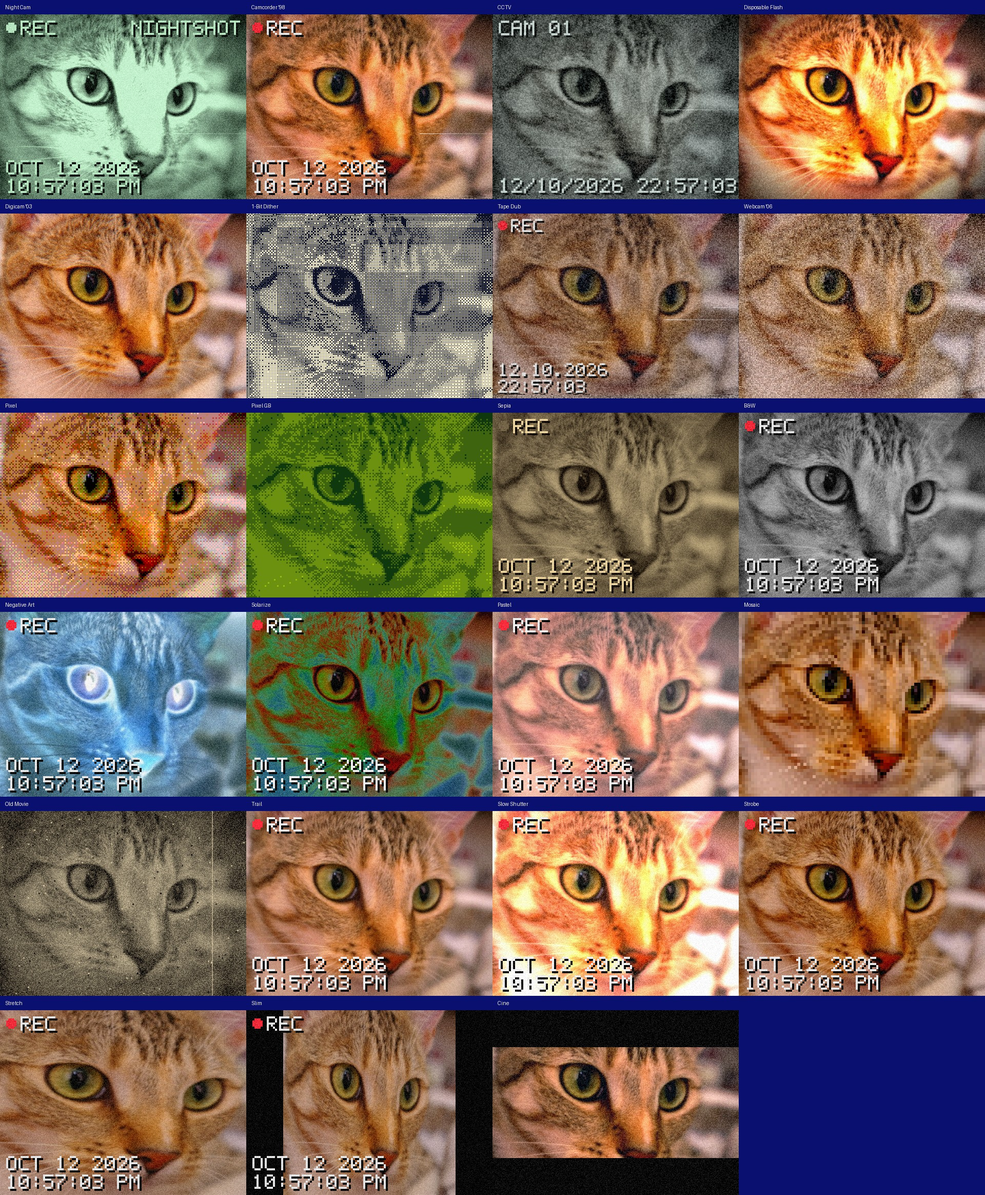
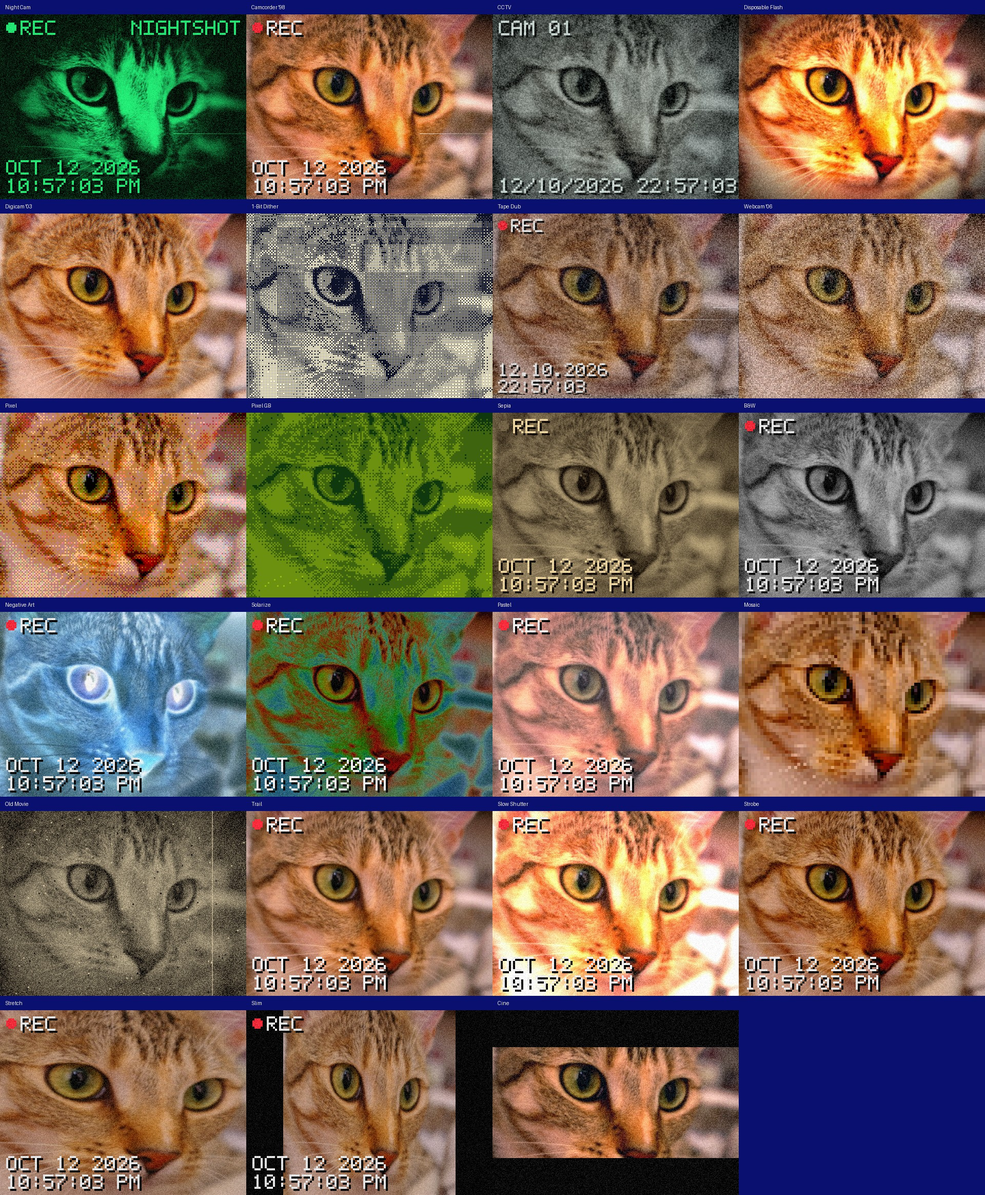
feat(nightshot): highlight halation, forest-to-neon curve, CCD smear, field judder
New shader params: night.bloomThreshold/Amount/Size (strongest IR highlights, e.g. eyes and teeth, blurred wide and added back), night.curve (S-curve crushing mids, lifting highlights), lens.smear/smearLength (vertical CCD streaks running down from very bright spots), tape.fieldOffset (random horizontal offset of odd lines per frame; also part of the signal-lines control). Night Cam retuned with a forest-to-neon green ramp, stronger lamp hotspot, more interlace.

Changed region(s): [[0.0, 0.0, 0.25, 0.1856]]

diff --git a/docs/DESIGN.md b/docs/DESIGN.md
@@ -34,7 +34,7 @@ export size. Parameters are in virtual pixels, so output is identical at any rea
 | Pass | Does | State |
 |---|---|---|
 | ingest | rotate, mirror, centre-crop, downscale | |
-| stage 1 | jitter, softness, chromatic aberration, chroma bleed (YIQ), tone, bloom, vignette, night vision, HUD burn-in, ghost / interlace | writes the temporal history |
+| stage 1 | jitter, interlaced-field judder, softness, chromatic aberration, chroma bleed (YIQ), tone, CCD vertical smear, bloom, vignette, night vision (IR channel mix, lamp hotspot, highlight halation, S-curve), HUD burn-in, ghost / interlace | writes the temporal history |
 | stage 2 | head-switch band, dropouts, grain, scanlines, quantise + Bayer dither, palette | |
 | present | upscale to screen / export | |
 
